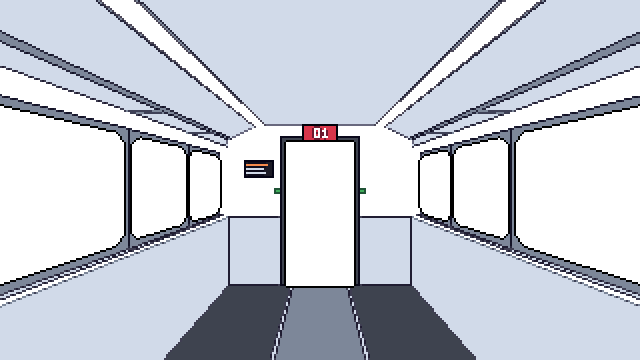
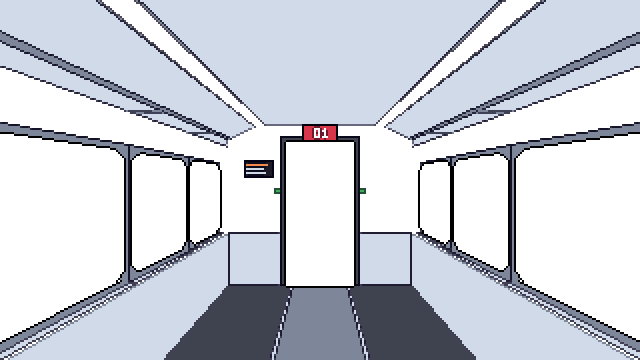
Update de l'intérieur

diff --git a/DOCUMENTATION.md b/DOCUMENTATION.md
@@ -329,7 +329,7 @@ L'ordre de ce tableau est l'ordre du train.
 
 | N° | Dossier | Architecture (placeholder) | Histoire | Couleurs propres | Responsable | État |
 |---|---|---|---|---|---|---|
-| 01 | `wagon-01` | TER régional d'aujourd'hui, inspiré des trains liO d'Occitanie (sans logo) : parois blanches, une baie vitrée par rangée de sièges (coins arrondis, tablette, trumeaux entre deux baies), deux bandes LED continues au plafond au-dessus des porte-bagages, porte-bagages en verre dépoli vus par en dessous (au-dessus de l'oeil, donc sans bagages visibles), écran d'information et boutons d'ouverture à côté de la porte, sièges individuels bleu nuit à appuie-tête rouges en 2 + 2. On est debout au milieu de la voiture : comme dans un vrai TER, les sièges de cette moitié regardent vers le milieu, donc vers nous. Trois rangées en calques séparés (`banc-01` au fond, vide ; `banc-02` au milieu ; `banc-03` devant, coupée par le bas de l'écran, dossier un peu plus bas pour laisser voir la rangée du milieu). Les 8 élèves : au milieu Lino, Joaquim, Inas et Erine ; devant Lilian, Raphaël, Liku et Alio | Placeholder (Lorem ipsum), futur wagon MMI | aucune en plus de la palette | à définir | Joaquim et Erine dessinés à la main, les 6 autres provisoires (variantes de Joaquim) |
+| 01 | `wagon-01` | TER régional d'aujourd'hui, inspiré des trains liO d'Occitanie (sans logo) : parois blanches, une baie vitrée par rangée de sièges (coins arrondis, tablette, trumeaux entre deux baies ; bas de vitre vers 0,9 m du sol et haut vers 1,8 m, donc à hauteur des yeux des voyageurs assis), deux bandes LED continues au plafond au-dessus des porte-bagages, porte-bagages en verre dépoli vus par en dessous (au-dessus de l'oeil, donc sans bagages visibles), écran d'information et boutons d'ouverture à côté de la porte, sièges individuels bleu nuit à appuie-tête rouges en 2 + 2. On est debout au milieu de la voiture : comme dans un vrai TER, les sièges de cette moitié regardent vers le milieu, donc vers nous. Trois rangées en calques séparés (`banc-01` au fond, vide ; `banc-02` au milieu ; `banc-03` devant, coupée par le bas de l'écran, dossier un peu plus bas pour laisser voir la rangée du milieu). Les 8 élèves : au milieu Lino, Joaquim, Inas et Erine ; devant Lilian, Raphaël, Liku et Alio | Placeholder (Lorem ipsum), futur wagon MMI | aucune en plus de la palette | à définir | Joaquim et Erine dessinés à la main, les 6 autres provisoires (variantes de Joaquim) |
 | 02 | `wagon-02` | Voiture-salon de 1re classe d'un train à vapeur (vers 1900) : voûte en acajou à caissons, filets de laiton, fenêtres cintrées à rideaux de velours et lambrequins, appliques et lampes à gaz, fauteuils pivotants de velours capitonnés tournés vers le spectateur, guéridons à nappe blanche, tapis d'Orient, tableaux au mur du fond. Dehors, la fumée de la locomotive passe devant les fenêtres. Les 5 professeurs en tenue 1900 : Mr Blanco (melon), Mr Bernard (haut-de-forme, monocle), Mme De velder (chapeau à plume), Mme Pitot (chignon), Mr Gassin (canotier, au premier plan) | Le Salon à vapeur (pensées en Lorem ipsum) | acajou `#7a3b2e`, acajou sombre `#47212a`, laiton `#c98f3e`, velours `#b3263f`, velours prune `#5e1f45` | à définir | illustration v2 (DA Joaquim), professeurs provisoires (variantes de Joaquim) |
 | 03 | `wagon-03` | Voiture Corail (années 1980) : rangées de sièges orange tournés vers la porte, têtières blanches, néons. Voyageurs de dos, tête au-dessus des dossiers | Placeholder (Consectetur) | aucune | à définir | placeholder |
 | 04 | `wagon-04` | Train du futur : sièges coques le long des parois, plafond arrondi, bandes lumineuses cyan, grandes baies. Voyageurs de côté | Placeholder (Adipiscing elit) | aucune | à définir | placeholder |
